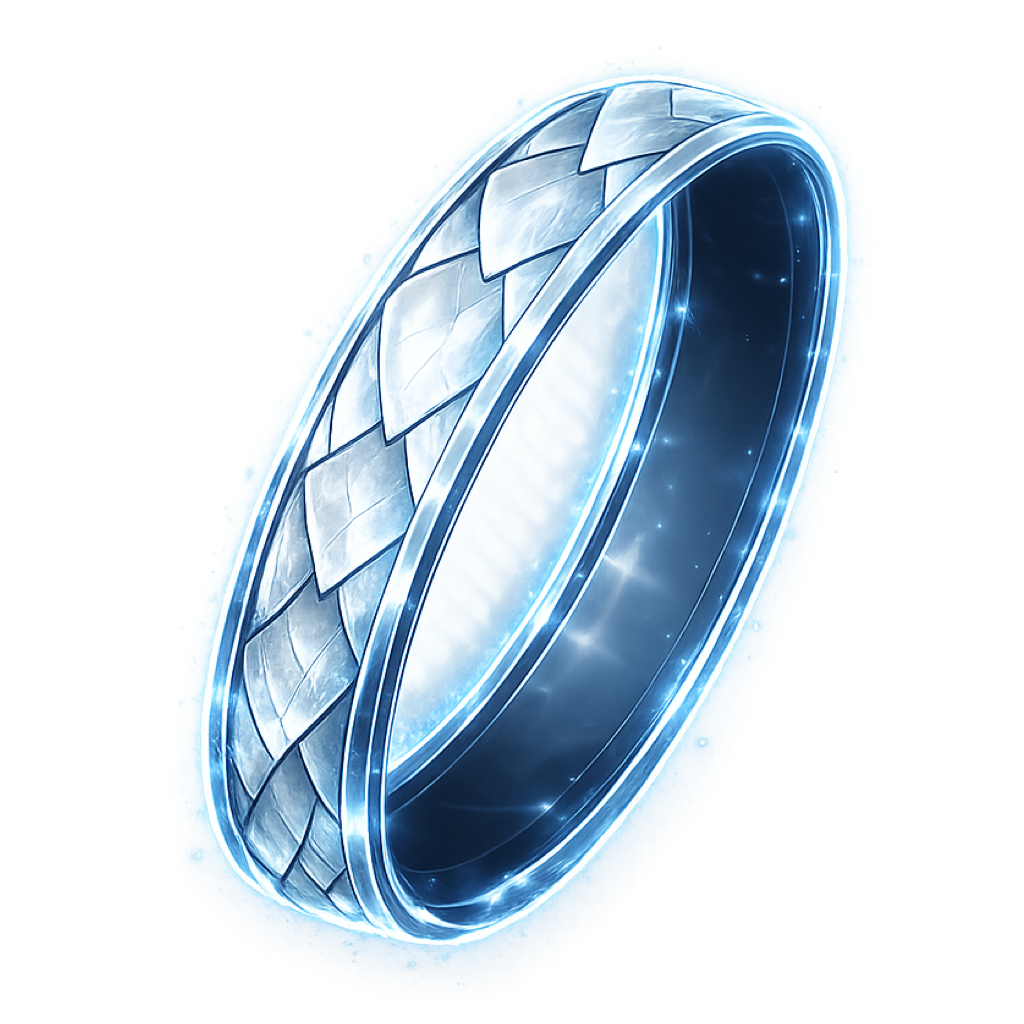
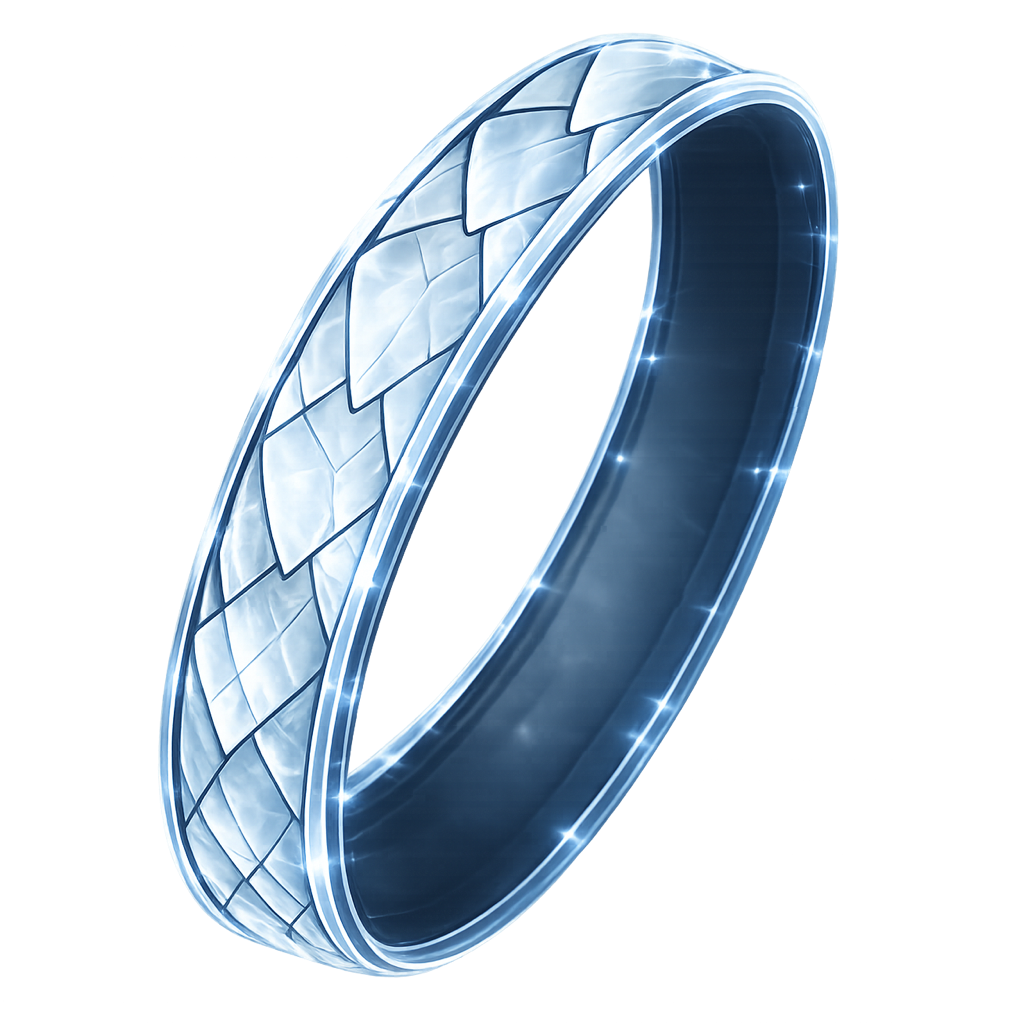
Tune balance sizing and refresh token assets

Changed region(s): [[0.1562, 0.0312, 0.8438, 0.9688]]

diff --git a/app/web/shop.py b/app/web/shop.py
@@ -165,11 +165,16 @@ async def shop_app() -> str:
     .balance-value {
       display: inline-flex;
       align-items: center;
-      justify-content: flex-end;
-      gap: 10px;
+      justify-content: flex-start;
+      gap: 12px;
       font-size: 22px;
       font-weight: 700;
       color: var(--coin);
+    }
+    .balance-value .coin-icon {
+      width: 40px;
+      height: 40px;
+      flex-basis: 40px;
     }
     .coin-icon {
       width: 20px;
@@ -508,9 +513,9 @@ async def shop_app() -> str:
       font-weight: 800;
     }
     .profile-balance-value .coin-icon {
-      width: 48px;
-      height: 48px;
-      flex-basis: 48px;
+      width: 24px;
+      height: 24px;
+      flex-basis: 24px;
     }
     .loading-image {
       position: relative;
